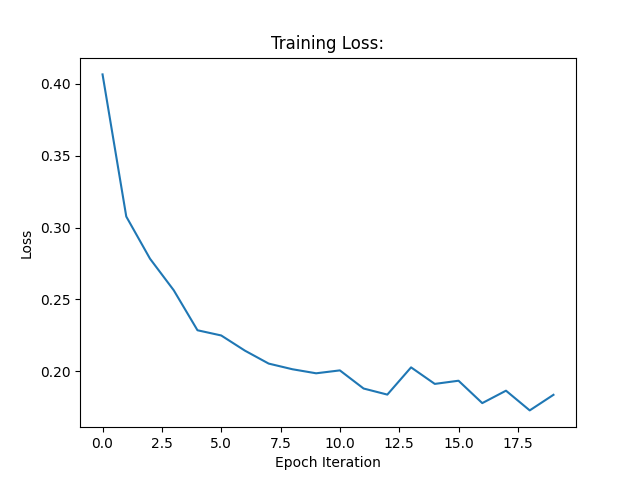
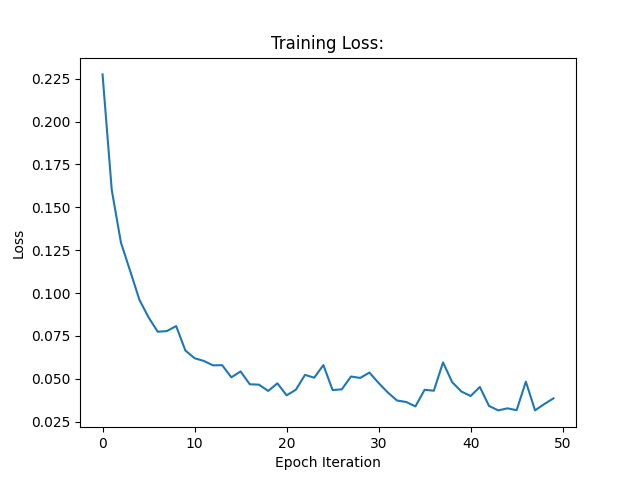
10/03/2020-Atkins-22:25:48 Ran updated training code for dense network. Also updated README

diff --git a/project/dense/dense_train.py b/project/dense/dense_train.py
@@ -35,7 +35,7 @@ def dense_train(x_train, y_train, learning_rate, num_epochs, batch_size, checkpo
     # Placeholder for batch of targets:
     y_ = tf.placeholder(tf.float32, [None, output_layer])
 
-    cost = tf.reduce_sum(tf.math.square(y - y_))
+    cost = tf.nn.softmax_cross_entropy_with_logits(labels=y_, logits=y)
     optimizer = tf.train.AdamOptimizer(learning_rate).minimize(cost)
 
     # Miscellaneous quantities:
@@ -45,6 +45,7 @@ def dense_train(x_train, y_train, learning_rate, num_epochs, batch_size, checkpo
     saver = tf.train.Saver(max_to_keep=num_models)
 
     training_losses = []
+    training_accuracies = []
 
     with tf.Session() as sess:
         sess.run(tf.global_variables_initializer())
@@ -53,19 +54,34 @@ def dense_train(x_train, y_train, learning_rate, num_epochs, batch_size, checkpo
                 batch_x = x_train[batch * batch_size: (1 + batch) * batch_size]
                 batch_y = y_train[batch * batch_size: (1 + batch) * batch_size]
                 # Instantiating the inputs and targets with the batch values:
-                sess.run([optimizer], feed_dict={x: batch_x, y_: batch_y})
-            training_output = sess.run([y], feed_dict={x: x_train, y_: y_train})[0]
-            training_loss = np.sum(np.square(training_output - y_train) / np.shape(training_output)[0])
+                output = np.array(sess.run([optimizer], feed_dict={x: batch_x, y_: batch_y}))
+            training_output, training_loss = sess.run([y, cost], feed_dict={x: x_train, y_: y_train})
+            training_loss = np.mean(training_loss)
             training_losses.append(training_loss)
+            training_predictions = np.argmax(training_output, axis=1)
+            training_targets = np.argmax(y_train, axis=1)
+            training_accuracy = round(np.sum(np.equal(training_predictions, training_targets)) \
+                                      / training_predictions.shape[0] * 100, 2)
+            training_accuracies.append(training_accuracy)
+            print(f"Current Epoch = {epoch_iteration}, Training Loss = {training_loss}, "
+                  f"Training Accuracy = {training_accuracy}%, {round(epoch_iteration / num_epochs * 100, 2)}% Complete")
 
             if epoch_iteration % checkpoint_frequency == 0:
                 checkpoint = dense_checkpoint_dir + f"dense_epoch_{epoch_iteration}.ckpt"
                 saver.save(sess, checkpoint)
         sess.close()
+    # Loss Plotting:
     plt.title("Training Loss:")
     plt.ylabel("Loss")
     plt.xlabel("Epoch Iteration")
     plt.plot(training_losses)
     plt.savefig(dense_results_dir + "training_loss.png")
+    plt.show()
+    # Accuracy Plotting:
+    plt.title("Training Accuracy:")
+    plt.ylabel("Accuracy %")
+    plt.xlabel("Epoch Iteration")
+    plt.plot(training_accuracies, "g")
+    plt.savefig(dense_results_dir + "training_accuracy.png")
     plt.show()
     return

diff --git a/project/main.py b/project/main.py
@@ -5,18 +5,17 @@ from project.conv.conv_train import conv_train
 from project.conv.conv_test import conv_test
 
 
-def dense(_train):
-    (x_train, y_train), (x_test, y_test) = load_MNIST_flat()
-
+def dense(_train, x_train, y_train, x_test, y_test):
     # Training Parameters:
     learning_rate = 0.001
-    num_epochs = 20
-    num_models = 10
-    batch_size = 64
+    num_epochs = 50
+    num_models = 50
+    batch_size = 512
+    checkpoint_frequency = 2
     # Testing Parameters:
-    checkpoint_file = "epoch_90.ckpt"
+    checkpoint_file = "conv_epoch_40.ckpt"
     if _train:
-        dense_train(x_train, y_train, learning_rate, num_epochs, batch_size, checkpoint_frequency=10,
+        dense_train(x_train, y_train, learning_rate, num_epochs, batch_size, checkpoint_frequency=checkpoint_frequency,
                     num_models=num_models)
     else:
         dense_test(x_test, y_test, checkpoint_file)
@@ -31,7 +30,7 @@ def conv(_train, x_train, y_train, x_test, y_test):
     batch_size = 512
     checkpoint_frequency = 2
     # Testing Parameters:
-    checkpoint_file = "conv_epoch_180.ckpt"
+    checkpoint_file = "conv_epoch_48.ckpt"
     if _train:
         conv_train(x_train, y_train, learning_rate, num_epochs, batch_size, checkpoint_frequency=checkpoint_frequency,
                     num_models=num_models)
@@ -40,8 +39,8 @@ def conv(_train, x_train, y_train, x_test, y_test):
 
 
 if __name__ == "__main__":
-    _train = 1
-    (x_train, y_train), (x_test, y_test) = load_MNIST()
+    _train = 0
+    (x_train, y_train), (x_test, y_test) = load_MNIST_flat()
     (x_train, y_train), (x_test, y_test) = (x_train, y_train), (x_test, y_test)
-    conv(_train, x_train, y_train, x_test, y_test)
+    dense(_train, x_train, y_train, x_test, y_test)
 

diff --git a/project/dense/dense_test.py b/project/dense/dense_test.py
@@ -6,8 +6,11 @@ from project.dense.dense_train import dense_checkpoint_dir, dense_results_dir
 def dense_test(x_test, y_test, checkpoint_file):
     # Parameters:
     input_nodes = np.shape(x_test)[1]
-    hidden_layer_1 = 32
-    hidden_layer_2 = 64
+
+    # Fully Connected:
+    increase_factor = 1.5
+    hidden_layer_1 = round(input_nodes * increase_factor)
+    hidden_layer_2 = round(hidden_layer_1 * increase_factor)
     output_layer = 10
 
     # Defining Layers:
@@ -20,7 +23,7 @@ def dense_test(x_test, y_test, checkpoint_file):
     # Layer 2 variables:
     W2 = tf.Variable(tf.truncated_normal([hidden_layer_1, hidden_layer_2], stddev=0.15))
     b2 = tf.Variable(tf.zeros([hidden_layer_2]))
-    y2 = tf.matmul(y1, W2) + b2
+    y2 = tf.math.sigmoid(tf.matmul(y1, W2) + b2)
     # Layer 3 variables:
     W3 = tf.Variable(tf.truncated_normal([hidden_layer_2, output_layer], stddev=0.15))
     b3 = tf.Variable(tf.zeros([output_layer]))

diff --git a/project/conv/conv_train.py b/project/conv/conv_train.py
@@ -3,7 +3,7 @@ import numpy as np
 import matplotlib.pyplot as plt
 
 conv_checkpoint_dir = "weights/conv/"
-results_folder = "results/conv/"
+conv_results_folder = "results/conv/"
 
 
 
@@ -108,13 +108,13 @@ def conv_train(x_train, y_train, learning_rate, num_epochs, batch_size, checkpoi
     plt.ylabel("Loss")
     plt.xlabel("Epoch Iteration")
     plt.plot(training_losses)
-    plt.savefig(results_folder + "training_loss.png")
+    plt.savefig(conv_results_folder + "training_loss.png")
     plt.show()
     # Accuracy Plotting:
     plt.title("Training Accuracy:")
     plt.ylabel("Accuracy %")
     plt.xlabel("Epoch Iteration")
     plt.plot(training_accuracies, "g")
-    plt.savefig(results_folder + "training_accuracy.png")
+    plt.savefig(conv_results_folder + "training_accuracy.png")
     plt.show()
     return

diff --git a/README.md b/README.md
@@ -26,6 +26,8 @@ The training curve is relatively smooth and shows little stability. This confirm
 
 *Figure 2: Fully-connected training accuracy plot*
 
+The fully-connected model achieved a testing accuracy of 97.2%. 
+
 ## Convolutional Model
 This model begins with two convolutional-pooling layers followed by three fully-connected layers. The Leaky-ReLU activation function is applied to the output of each convolutional layer and immediately followed by max-pooling. The parameters used for all 5 layers are illustrated by the code snippet, below:
 
@@ -100,7 +102,7 @@ The curve is smooth and has negligible instability. The following Figure illustr
 
 *Figure 4: Convolutional training accuracy plot*
 
-This curve, like the loss curve, follows the expected trajectory. This model was able to achieve a testing accuracy of _%. This is significantly higher than the testing accuracy of _% achieved by the fully-connected model. 
+This curve, like the loss curve, follows the expected trajectory. This model was able to achieve a testing accuracy of 96.1%. This is significantly higher than the testing accuracy of 97.2% achieved by the fully-connected model. 
 
 
 Convolutional layer guide: https://stackoverflow.com/questions/34619177/what-does-tf-nn-conv2d-do-in-tensorflow
